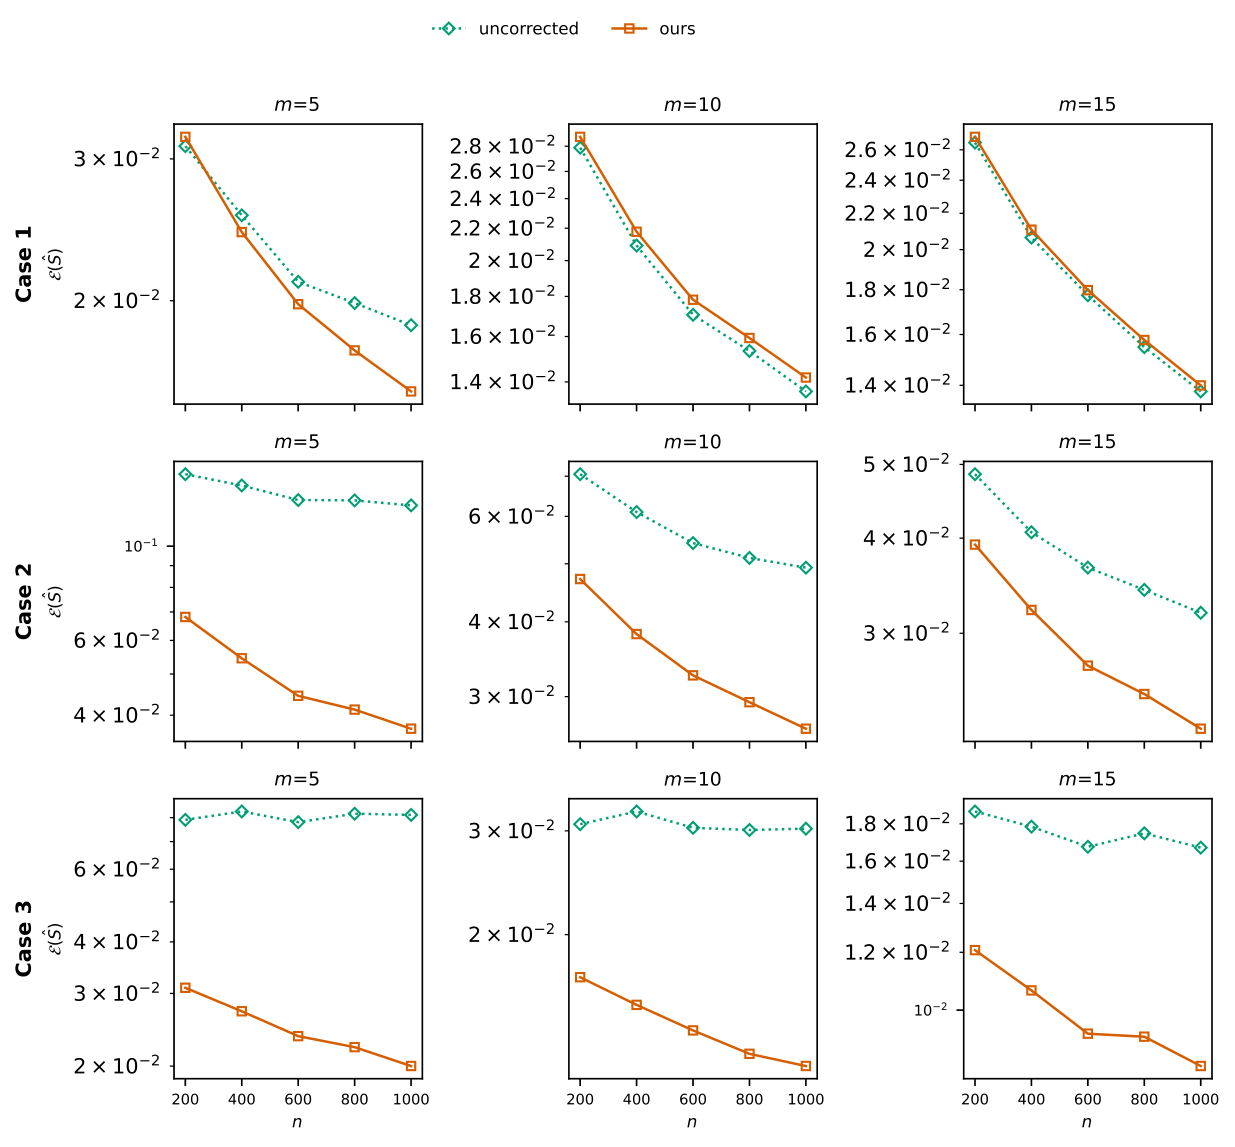
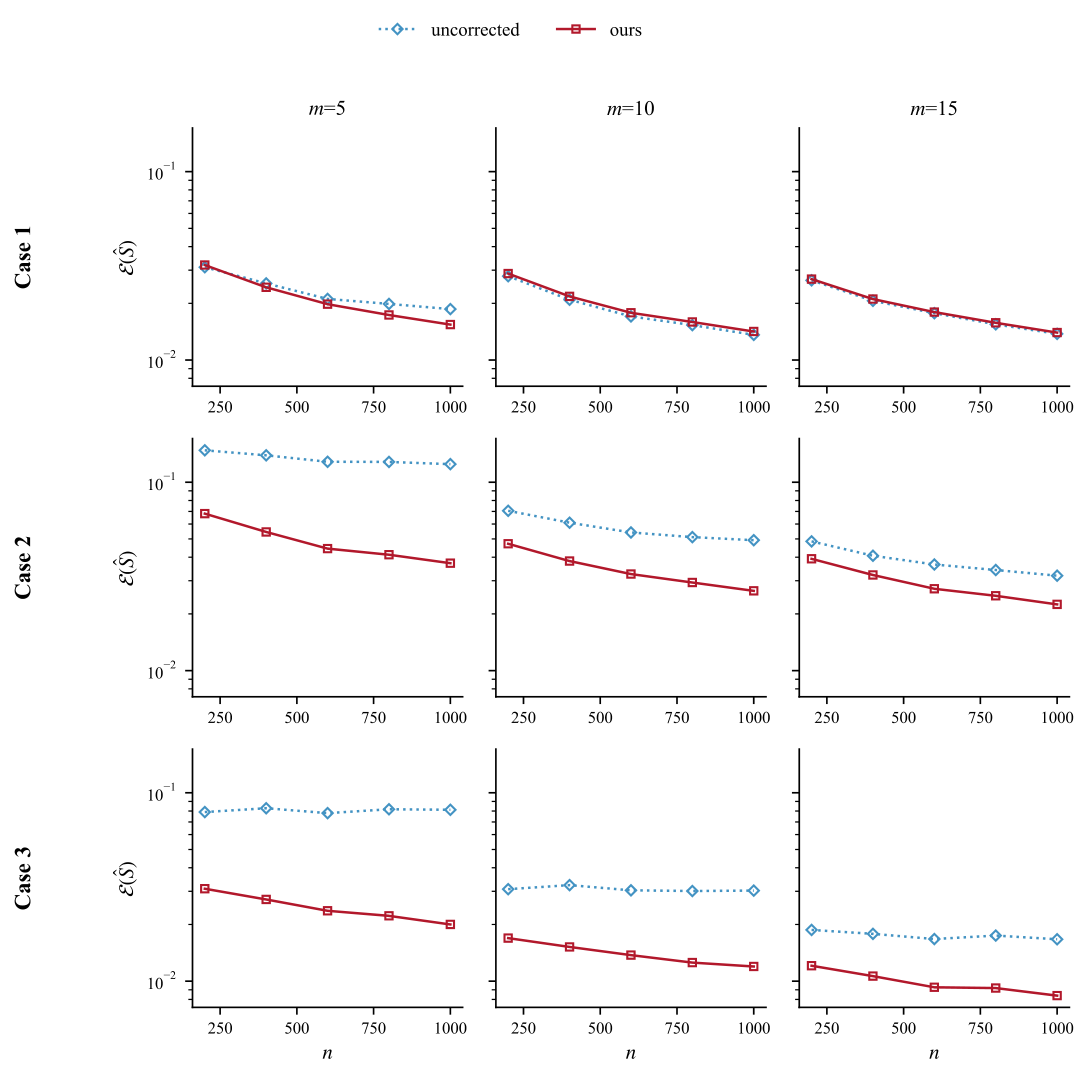
README/code fixes for release: PNG figure embeds (GitHub cannot render PDF images), correct table/figure mapping, full-sample trawl note, portable Rscript lookup and repo-relative redraw path

diff --git a/simulation/run_simulation.py b/simulation/run_simulation.py
@@ -1,12 +1,14 @@
-"""Rerun everything under the new settings.
+"""Full simulation study: coefficient and support estimation.
 
-- n grid: {200,400,600,800,1000}; tables at n=200; m in {5,10,15}; 300 reps.
+- n grid: {200,400,600,800,1000}; tables at n=1000 (config.NTAB);
+  m in {5,10,15}; 300 reps.
 - Support estimation uses the theoretical bandwidth of Theorem thm:support:
   h_n = (log n / n)^{1/3}   (alpha=1, C=1, d=2).
 - Outputs: sim_theta.json, sim_support_conv.json, fig_sim_theta.pdf,
-  fig_sim_support_conv.pdf, fig_sim_recovery.pdf (single n=200),
-  and LaTeX-ready table rows with bold (best
+  fig_sim_support_conv.pdf, and LaTeX-ready table rows with bold (best
   non-oracle) / underline (second best) marks.
+- The paper's Figures 2-3 (serif style, M axis) are re-emitted from
+  the cache by simulation/redraw_figs.py.
 
 Run from hybrid_model_for_zero_inflated_proportion_data/.
 """

diff --git a/real_data/figures.py b/real_data/figures.py
@@ -1,10 +1,10 @@
-"""Full-sample support figures (paper Figures 1 and 2).
+"""Full-sample support figures (paper Figures 1 and 4).
 
 Task separation: this script does NO cross-validation. It fits the
 debiased MLE once on the full sample of each dataset and draws the
 support estimate. Performance comparisons live in rerun_all.py
-(screened sample) and full_sample.py (unscreened trawl sample), both
-of which are cross-validation only.
+(turtle CV) and full_sample.py (trawl full-sample CV), both of which
+are cross-validation only.
 
 Outputs: results/figure/fig_trawl_full.pdf, fig_turtle_support.pdf.
 Run from the repository root:

diff --git a/real_data/run_experiment.py b/real_data/run_experiment.py
@@ -9,6 +9,7 @@ imports tabicl_rows below. Run from hybrid_model_for_zero_inflated_proportion_da
     python real_data/run_experiment.py
 """
 import json
+import shutil
 import subprocess
 import sys
 import tempfile
@@ -24,7 +25,7 @@ import pandas as pd
 from config import TEMP, ensure_dirs
 from load_data import load_turtle
 
-RSCRIPT = r"C:\Program Files\R\R-4.6.1\bin\x64\Rscript.exe"
+RSCRIPT = shutil.which("Rscript") or r"C:\Program Files\R\R-4.6.1\bin\x64\Rscript.exe"
 
 
 def folds_of(n, k=5, seed=42):

diff --git a/simulation/redraw_figs.py b/simulation/redraw_figs.py
@@ -7,7 +7,7 @@ import json
 import sys
 from pathlib import Path
 
-PKG = Path(r"C:\Users\13299\Desktop\paper\hybrid_model_for_zero_inflated_proportion_data")
+PKG = Path(__file__).resolve().parents[1]
 sys.path.insert(0, str(PKG))
 
 import matplotlib

diff --git a/README.md b/README.md
@@ -5,9 +5,9 @@ proportion data". Model: `mY | X ~ Bin(m, sigma(X'theta) * I_S(X))`.
 
 ## How to use
 
-Python 3.9+ (numpy, scipy, pandas, matplotlib, imageio), R with
-glmmTMB + gamlss, and `pip install tabicl==2.0.2`. Run from this
-directory:
+Python 3.9+ (numpy, pandas, matplotlib), R with jsonlite + glmmTMB +
+gamlss (`Rscript` on the PATH), and `pip install tabicl==2.0.2`. Run
+from this directory:
 
 ```bash
 python simulation/run_simulation.py    # Tables 2-3 + Figures 2-3          (~8 min)
@@ -19,14 +19,20 @@ python real_data/figures.py            # Figures 1 and 4 (full-sample fits)(~1 m
 python real_data/verify_tabicl.py      # TabICLv2 rows, Table 5            (~2 min)
 ```
 
+`full_sample.py --with-tabicl` adds the TabICLv2 row of Table 4
+(~69 min). The cached JSON in `results/temp/` holds every number in
+the paper's tables.
+
 ## Framework
 
 ```
 data/            trawl.csv, turtle.csv          # the two analysis datasets
-algorithm/       model, estimators, kernel_support, metrics
-simulation/      dgp.py, run_simulation.py      # Table 2, Figures C.1-C.2
-real_data/       load_data, run_experiment,     # Table 3, Figures 1-2
-                 rerun_all, verify_tabicl
+algorithm/       model, estimators, kernel_support, metrics, plotting
+simulation/      dgp, run_simulation,           # Tables 2-3, Figures 2-3
+                 redraw_figs
+real_data/       load_data, run_experiment,     # Tables 4-5, Figures 1, 4
+                 rerun_all, full_sample,
+                 figures, verify_tabicl
 results/         figure/ (paper figures), temp/ (cached JSON, reproducible)
 ```
 
@@ -35,21 +41,21 @@ results/         figure/ (paper figures), temp/ (cached JSON, reproducible)
 | Debiased MLE (Newton) | `algorithm/estimators.py::fit_debiased` |
 | Corrected outcome + NW support, tau = 1/2 | `algorithm/kernel_support.py` |
 | Bandwidth: `(log n/n)^(1/3)` (simulation), LOO-CV (real data) | `kernel_support.py::bw_theory` / `nw_bw` |
-| Model check (bottom 5/10/20% counts, out-of-fold) | `real_data/rerun_all.py` |
+| Model check (bottom 5/10/20% counts, out-of-fold) | `real_data/rerun_all.py`, `real_data/full_sample.py` |
 
 ## Results
 
 **Simulation** — n = 1000, 300 replications, m in {5,10,15}, tau = 1/2,
-theoretical bandwidth (Table 2).
+theoretical bandwidth (Tables 2-3).
 
 | ![theta convergence](results/figure/png/fig_sim_theta.png) | ![support convergence](results/figure/png/fig_sim_support_conv.png) |
 |---|---|
 | *Left: mean squared error of the coefficient estimators vs M = nm; ours tracks the oracle and beats the uncorrected MLE wherever sigma is small (Cases 2-3).* | *Right: support error vs n; ours is 1.2-4.1 times more accurate in Cases 2-3.* |
 
 **Real data** — five-fold cross-validation, same folds for every
-method (Table 3).
+method (Tables 4-5).
 
-| ![trawl region](results/figure/fig_trawl_full.pdf) | ![turtle region](results/figure/fig_turtle_support.pdf) |
+| ![trawl region](results/figure/png/fig_trawl_full.png) | ![turtle region](results/figure/png/fig_turtle_support.png) |
 |---|---|
 | *Trawl (n = 30,131, full sample): the recovered cod habitat traces the curved thermal front; the model check supports it (0, 4, 87 cod-containing hauls in the bottom 5/10/20%).* | *Turtle nests (n = 164): small sample, nearly linear boundary; best MAE on both datasets, AUC/MCC within one SE of TabICLv2.* |
 
@@ -67,9 +73,9 @@ parametric gates, TabICLv2) fall to the chance level (AUC ~ .49).
 
 - Seeds fixed (`config.sim_seed`, `default_rng(42)`): runs reproduce
   the cached JSON and the paper numbers bit-for-bit.
-- Trawl analysis sample: hauls with non-missing `btemp` and `depth`
-  and 50 <= `n_total` <= 500 (n = 3,367); turtle nests with complete
-  covariates (n = 164).
+- Trawl full sample: hauls with observed `btemp` (> -2 C) and `depth`
+  and `n_total >= 1` (n = 30,131); turtle nests with complete
+  covariates (n = 164 of 170 recorded).
 - All methods fit on fold-standardized covariates (R side included);
   bandwidth LOO-CV subsamples to at most 1,500 points; two stability
   guards (denominator floor 0.05, Newton ridge 1e-10) never activate.
